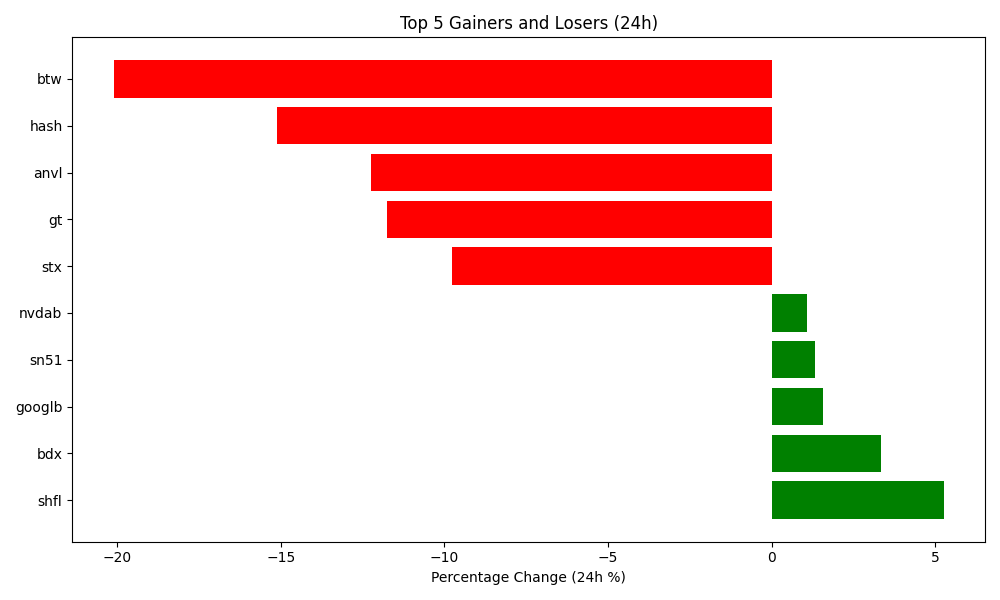
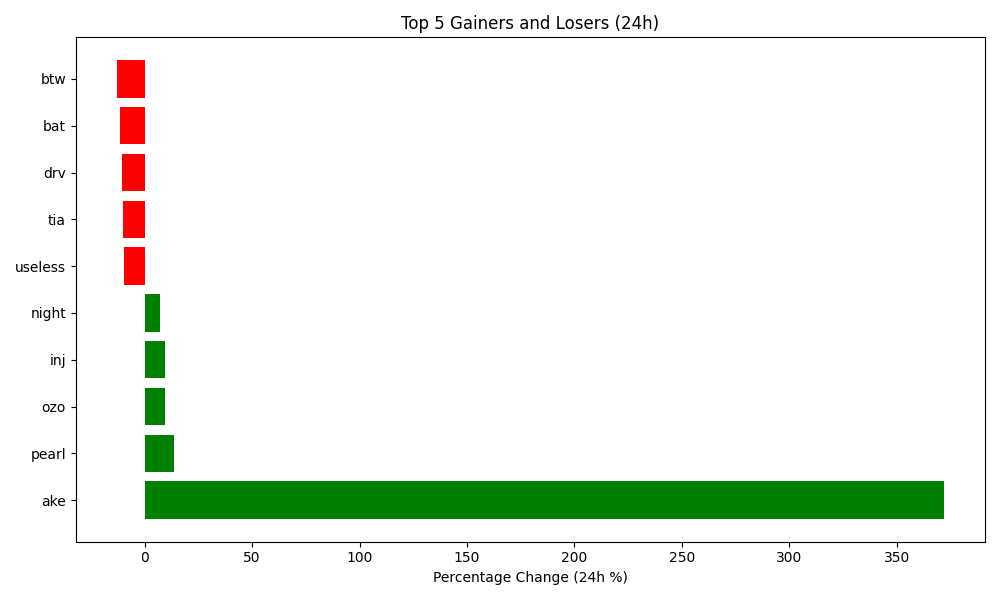
Auto-update crypto data and plot

diff --git a/README.md b/README.md
@@ -4,7 +4,7 @@ Author: Hitesh Agrawal
 This repository automatically tracks the top 5 gaining, top 5 losing, and top 5 highest volume cryptocurrencies in the last 24 hours using the CoinGecko API, Python, Matplotlib, and GitHub Actions updates the below content everyday at midnight.
 
 <!-- START_DYNAMIC_CONTENT -->
-Last updated: 2026-11-13 04:27 UTC
+Last updated: 2026-11-14 04:23 UTC
 
 ![Crypto Movers Plot](crypto_movers_plot.png)
 
@@ -12,33 +12,33 @@ Last updated: 2026-11-13 04:27 UTC
 
 | Rank | Coin | Price Change (24h %) | Volume (USD) | Current Price (USD) |
 | :--: | :--: | :------------------: | :----------: | :-----------------: |
-| 1 | shfl | 5.25% | $601,313 | $0.3960 |
-| 2 | bdx | 3.34% | $11,819,928 | $0.0729 |
-| 3 | googlb | 1.55% | $29,710,310 | $299.8200 |
-| 4 | sn51 | 1.32% | $14,402,447 | $24.2600 |
-| 5 | nvdab | 1.07% | $283,290,341 | $163.0200 |
+| 1 | ake | 371.88% | $594,172,109 | $0.0124 |
+| 2 | pearl | 13.59% | $19,492,960 | $1.5200 |
+| 3 | ozo | 9.45% | $394,852 | $0.2360 |
+| 4 | inj | 9.37% | $161,304,656 | $7.9400 |
+| 5 | night | 6.87% | $25,682,436 | $0.0463 |
 
 
 **👇 Top 5 Losers (24h)**
 
 | Rank | Coin | Price Change (24h %) | Volume (USD) | Current Price (USD) |
 | :--: | :--: | :------------------: | :----------: | :-----------------: |
-| 1 | btw | -20.11% | $6,444,462 | $0.8399 |
-| 2 | hash | -15.13% | $36,572 | $0.0065 |
-| 3 | anvl | -12.25% | $411,077 | $0.0020 |
-| 4 | gt | -11.76% | $8,633,718 | $8.6800 |
-| 5 | stx | -9.76% | $14,667,521 | $0.2755 |
+| 1 | btw | -12.90% | $9,873,641 | $0.7299 |
+| 2 | bat | -11.68% | $18,644,880 | $0.1043 |
+| 3 | drv | -10.64% | $8,203,781 | $0.2679 |
+| 4 | tia | -9.95% | $42,364,780 | $0.3704 |
+| 5 | useless | -9.49% | $14,602,114 | $0.1158 |
 
 
 **💎 Top 5 by Trade Volume (24h)**
 
 | Rank | Coin | Price Change (24h %) | Volume (USD) | Current Price (USD) |
 | :--: | :--: | :------------------: | :----------: | :-----------------: |
-| 1 | usdt | 0.01% | $52,690,118,738 | $0.9992 |
-| 2 | btc | -6.67% | $35,452,334,221 | $68,782.0000 |
-| 3 | usdc | 0.01% | $15,074,459,973 | $0.9996 |
-| 4 | eth | -6.08% | $12,735,558,784 | $1,927.8700 |
-| 5 | sol | -5.82% | $2,722,307,496 | $78.2400 |
+| 1 | usdt | 0.00% | $58,413,872,700 | $0.9992 |
+| 2 | btc | -2.90% | $39,048,123,031 | $66,833.0000 |
+| 3 | usdc | 0.00% | $16,452,872,956 | $0.9996 |
+| 4 | eth | -2.02% | $13,684,253,425 | $1,892.5600 |
+| 5 | sol | -3.84% | $3,557,124,223 | $75.4000 |
 
 
 <!-- END_DYNAMIC_CONTENT -->
